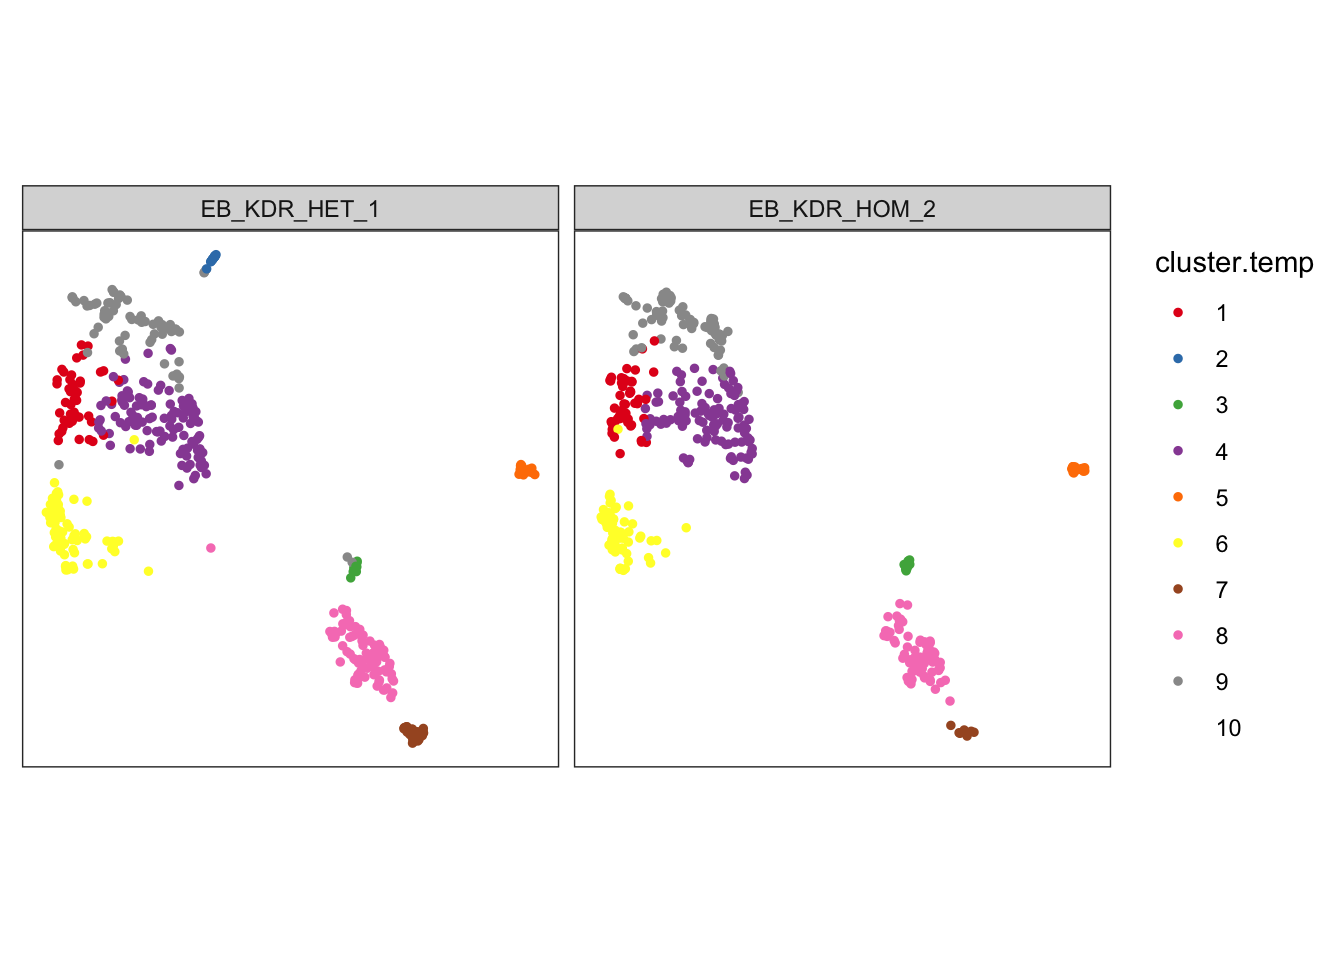
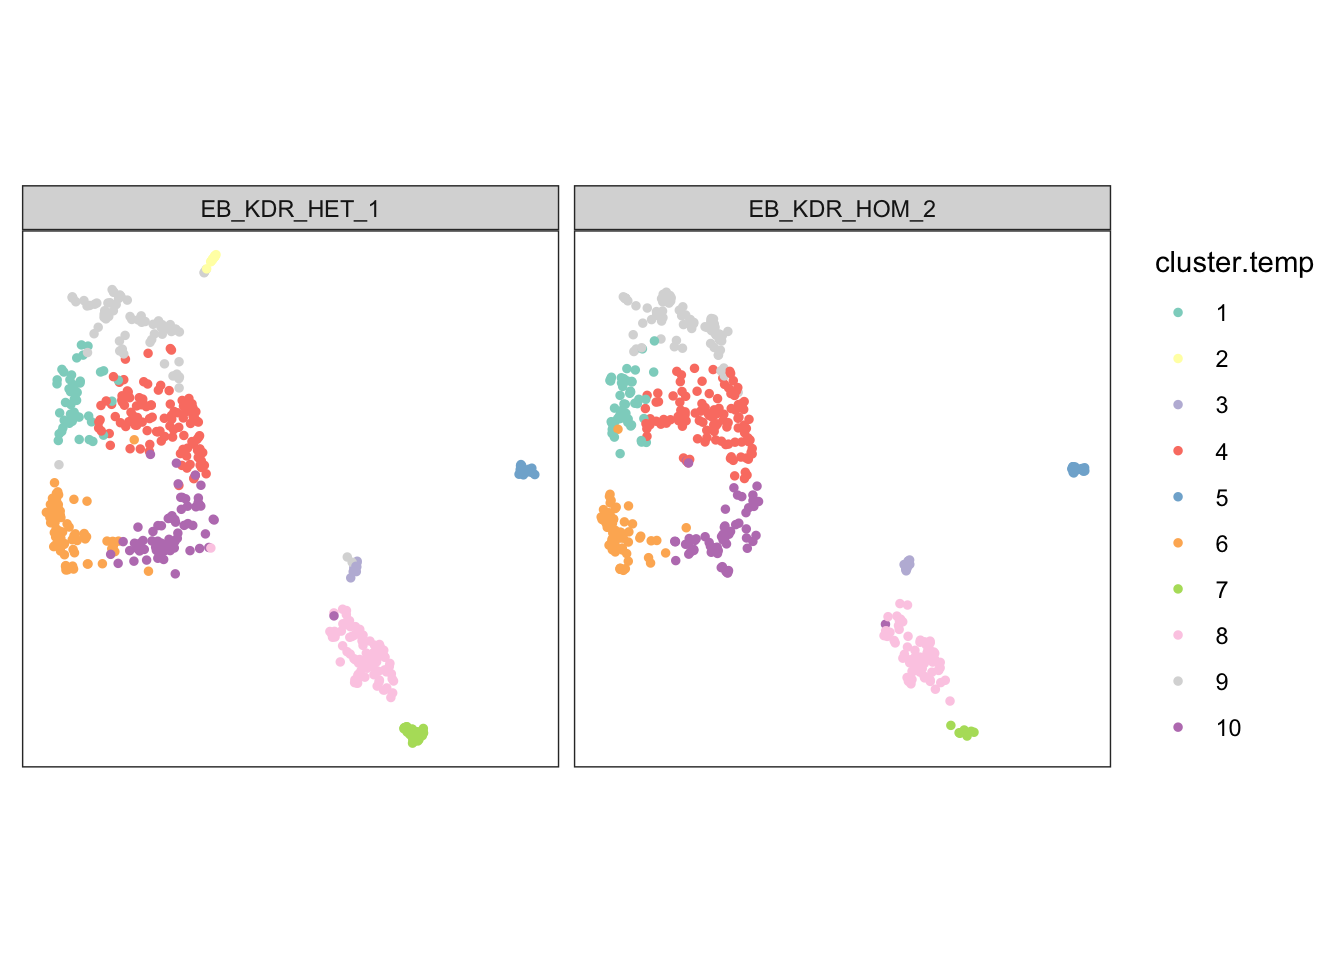
Build

diff --git a/docs/01-batch-integration.html b/docs/01-batch-integration.html
@@ -500,16 +500,16 @@ This reproducible <a href="http://rmarkdown.rstudio.com">R Markdown</a> analysis
 <div class="panel panel-default">
 <div class="panel-heading">
 <p class="panel-title">
-<a data-toggle="collapse" data-parent="#workflowr-checks" href="#strongRepositoryversionstrongahrefhttpsgithubcomjma1991EBKDRtree3f82acfaf75171166852d0f99205d75b9c0491bftargetblank3f82acfa"> <span class="glyphicon glyphicon-ok text-success" aria-hidden="true"></span> <strong>Repository version:</strong> <a href="https://github.com/jma1991/EB_KDR/tree/3f82acfaf75171166852d0f99205d75b9c0491bf" target="_blank">3f82acf</a> </a>
+<a data-toggle="collapse" data-parent="#workflowr-checks" href="#strongRepositoryversionstrongahrefhttpsgithubcomjma1991EBKDRtree0b159afa0ec3a60448dd42b8051eadddbc874d18targetblank0b159afa"> <span class="glyphicon glyphicon-ok text-success" aria-hidden="true"></span> <strong>Repository version:</strong> <a href="https://github.com/jma1991/EB_KDR/tree/0b159afa0ec3a60448dd42b8051eadddbc874d18" target="_blank">0b159af</a> </a>
 </p>
 </div>
[2 lines of base64/hex data omitted]
 <div class="panel-body">
 <p>
 Great! You are using Git for version control. Tracking code development and connecting the code version to the results is critical for reproducibility.
 </p>
 <p>
-The results in this page were generated with repository version <a href="https://github.com/jma1991/EB_KDR/tree/3f82acfaf75171166852d0f99205d75b9c0491bf" target="_blank">3f82acf</a>. See the <em>Past versions</em> tab to see a history of the changes made to the R Markdown and HTML files.
+The results in this page were generated with repository version <a href="https://github.com/jma1991/EB_KDR/tree/0b159afa0ec3a60448dd42b8051eadddbc874d18" target="_blank">0b159af</a>. See the <em>Past versions</em> tab to see a history of the changes made to the R Markdown and HTML files.
 </p>
 <p>
 Note that you need to be careful to ensure that all relevant files for the analysis have been committed to Git prior to generating the results (you can use <code>wflow_publish</code> or <code>wflow_git_commit</code>). workflowr only checks the R Markdown file, but you know if there are other scripts or data files that it depends on. Below is the status of the Git repository when the results were generated:
@@ -571,6 +571,40 @@ Message
 </tr>
 </thead>
 <tbody>
+<tr>
+<td>
+Rmd
+</td>
+<td>
+<a href="https://github.com/jma1991/EB_KDR/blob/0b159afa0ec3a60448dd42b8051eadddbc874d18/analysis/01-batch-integration.Rmd" target="_blank">0b159af</a>
+</td>
+<td>
+James Ashmore
+</td>
+<td>
+2021-07-15
+</td>
+<td>
+Build
+</td>
+</tr>
+<tr>
+<td>
+html
+</td>
+<td>
+<a href="https://rawcdn.githack.com/jma1991/EB_KDR/22d593937de177346c20604778c9e2946659f774/docs/01-batch-integration.html" target="_blank">22d5939</a>
+</td>
+<td>
+James Ashmore
+</td>
+<td>
+2021-07-15
+</td>
+<td>
+Build
+</td>
+</tr>
 <tr>
 <td>
 Rmd
@@ -903,7 +937,7 @@ James Ashmore
 <p>Visualize the corrected PCA:</p>
 <pre class="r"><code>ggcells(mnn, aes(corrected.1, corrected.2, colour = cluster.temp)) + 
   geom_point(size = 1) + 
-  scale_colour_brewer(palette = &quot;Set1&quot;) + 
+  scale_colour_brewer(palette = &quot;Set3&quot;) + 
   labs(x = &quot;PCA 1&quot;, y = &quot;PCA 2&quot;) + 
   facet_wrap(~ batch) + 
   theme_no_axes() + 
@@ -931,6 +965,17 @@ Date
 </tr>
 </thead>
 <tbody>
+<tr>
+<td>
+<a href="https://github.com/jma1991/EB_KDR/blob/56e9932fb72269f3348ea2be7837ef19852afed1/docs/figure/01-batch-integration.Rmd/unnamed-chunk-20-1.png" target="_blank">56e9932</a>
+</td>
+<td>
+James Ashmore
+</td>
+<td>
+2021-07-15
+</td>
+</tr>
 <tr>
 <td>
 <a href="https://github.com/jma1991/EB_KDR/blob/e26ff1adbe461d3a9337bed387e652c043cf386d/docs/figure/01-batch-integration.Rmd/unnamed-chunk-20-1.png" target="_blank">e26ff1a</a>
@@ -964,7 +1009,7 @@ mnn &lt;- runTSNE(mnn, dimred = &quot;corrected&quot;)</code></pre>
 <p>Visualize the corrected PCA using a TSNE plot:</p>
 <pre class="r"><code>ggcells(mnn, aes(TSNE.1, TSNE.2, colour = cluster.temp)) +
   geom_point(size = 1) + 
-  scale_colour_brewer(palette = &quot;Set1&quot;) + 
+  scale_colour_brewer(palette = &quot;Set3&quot;) + 
   labs(x = &quot;TSNE 1&quot;, y = &quot;TSNE 2&quot;) +
   facet_wrap(~ batch) +
   theme_no_axes() + 
@@ -992,6 +1037,17 @@ Date
 </tr>
 </thead>
 <tbody>
+<tr>
+<td>
+<a href="https://github.com/jma1991/EB_KDR/blob/22d593937de177346c20604778c9e2946659f774/docs/figure/01-batch-integration.Rmd/unnamed-chunk-22-1.png" target="_blank">22d5939</a>
+</td>
+<td>
+James Ashmore
+</td>
+<td>
+2021-07-15
+</td>
+</tr>
 <tr>
 <td>
 <a href="https://github.com/jma1991/EB_KDR/blob/56e9932fb72269f3348ea2be7837ef19852afed1/docs/figure/01-batch-integration.Rmd/unnamed-chunk-22-1.png" target="_blank">56e9932</a>
@@ -1036,7 +1092,7 @@ mnn &lt;- runUMAP(mnn, dimred = &quot;corrected&quot;)</code></pre>
 <p>Visualize the corrected PCA using a UMAP plot:</p>
 <pre class="r"><code>ggcells(mnn, aes(UMAP.1, UMAP.2, colour = cluster.temp)) +
   geom_point(size = 1) +
-  scale_colour_brewer(palette = &quot;Set1&quot;) + 
+  scale_colour_brewer(palette = &quot;Set3&quot;) + 
   labs(x = &quot;UMAP 1&quot;, y = &quot;UMAP 2&quot;) +
   facet_wrap(~ batch) +
   theme_no_axes() + 
@@ -1064,6 +1120,17 @@ Date
 </tr>
 </thead>
 <tbody>
+<tr>
+<td>
+<a href="https://github.com/jma1991/EB_KDR/blob/22d593937de177346c20604778c9e2946659f774/docs/figure/01-batch-integration.Rmd/unnamed-chunk-24-1.png" target="_blank">22d5939</a>
+</td>
+<td>
+James Ashmore
+</td>
+<td>
+2021-07-15
+</td>
+</tr>
 <tr>
 <td>
 <a href="https://github.com/jma1991/EB_KDR/blob/56e9932fb72269f3348ea2be7837ef19852afed1/docs/figure/01-batch-integration.Rmd/unnamed-chunk-24-1.png" target="_blank">56e9932</a>

diff --git a/docs/license.html b/docs/license.html
@@ -361,16 +361,16 @@ This reproducible <a href="http://rmarkdown.rstudio.com">R Markdown</a> analysis
 <div class="panel panel-default">
 <div class="panel-heading">
 <p class="panel-title">
-<a data-toggle="collapse" data-parent="#workflowr-checks" href="#strongRepositoryversionstrongahrefhttpsgithubcomjma1991EBKDRtree3f82acfaf75171166852d0f99205d75b9c0491bftargetblank3f82acfa"> <span class="glyphicon glyphicon-ok text-success" aria-hidden="true"></span> <strong>Repository version:</strong> <a href="https://github.com/jma1991/EB_KDR/tree/3f82acfaf75171166852d0f99205d75b9c0491bf" target="_blank">3f82acf</a> </a>
+<a data-toggle="collapse" data-parent="#workflowr-checks" href="#strongRepositoryversionstrongahrefhttpsgithubcomjma1991EBKDRtree0b159afa0ec3a60448dd42b8051eadddbc874d18targetblank0b159afa"> <span class="glyphicon glyphicon-ok text-success" aria-hidden="true"></span> <strong>Repository version:</strong> <a href="https://github.com/jma1991/EB_KDR/tree/0b159afa0ec3a60448dd42b8051eadddbc874d18" target="_blank">0b159af</a> </a>
 </p>
 </div>
[2 lines of base64/hex data omitted]
 <div class="panel-body">
 <p>
 Great! You are using Git for version control. Tracking code development and connecting the code version to the results is critical for reproducibility.
 </p>
 <p>
-The results in this page were generated with repository version <a href="https://github.com/jma1991/EB_KDR/tree/3f82acfaf75171166852d0f99205d75b9c0491bf" target="_blank">3f82acf</a>. See the <em>Past versions</em> tab to see a history of the changes made to the R Markdown and HTML files.
+The results in this page were generated with repository version <a href="https://github.com/jma1991/EB_KDR/tree/0b159afa0ec3a60448dd42b8051eadddbc874d18" target="_blank">0b159af</a>. See the <em>Past versions</em> tab to see a history of the changes made to the R Markdown and HTML files.
 </p>
 <p>
 Note that you need to be careful to ensure that all relevant files for the analysis have been committed to Git prior to generating the results (you can use <code>wflow_publish</code> or <code>wflow_git_commit</code>). workflowr only checks the R Markdown file, but you know if there are other scripts or data files that it depends on. Below is the status of the Git repository when the results were generated:
@@ -432,6 +432,23 @@ Message
 </tr>
 </thead>
 <tbody>
+<tr>
+<td>
+html
+</td>
+<td>
+<a href="https://rawcdn.githack.com/jma1991/EB_KDR/22d593937de177346c20604778c9e2946659f774/docs/license.html" target="_blank">22d5939</a>
+</td>
+<td>
+James Ashmore
+</td>
+<td>
+2021-07-15
+</td>
+<td>
+Build
+</td>
+</tr>
 <tr>
 <td>
 html

diff --git a/docs/about.html b/docs/about.html
@@ -361,16 +361,16 @@ This reproducible <a href="http://rmarkdown.rstudio.com">R Markdown</a> analysis
 <div class="panel panel-default">
 <div class="panel-heading">
 <p class="panel-title">
-<a data-toggle="collapse" data-parent="#workflowr-checks" href="#strongRepositoryversionstrongahrefhttpsgithubcomjma1991EBKDRtree3f82acfaf75171166852d0f99205d75b9c0491bftargetblank3f82acfa"> <span class="glyphicon glyphicon-ok text-success" aria-hidden="true"></span> <strong>Repository version:</strong> <a href="https://github.com/jma1991/EB_KDR/tree/3f82acfaf75171166852d0f99205d75b9c0491bf" target="_blank">3f82acf</a> </a>
+<a data-toggle="collapse" data-parent="#workflowr-checks" href="#strongRepositoryversionstrongahrefhttpsgithubcomjma1991EBKDRtree0b159afa0ec3a60448dd42b8051eadddbc874d18targetblank0b159afa"> <span class="glyphicon glyphicon-ok text-success" aria-hidden="true"></span> <strong>Repository version:</strong> <a href="https://github.com/jma1991/EB_KDR/tree/0b159afa0ec3a60448dd42b8051eadddbc874d18" target="_blank">0b159af</a> </a>
 </p>
 </div>
[2 lines of base64/hex data omitted]
 <div class="panel-body">
 <p>
 Great! You are using Git for version control. Tracking code development and connecting the code version to the results is critical for reproducibility.
 </p>
 <p>
-The results in this page were generated with repository version <a href="https://github.com/jma1991/EB_KDR/tree/3f82acfaf75171166852d0f99205d75b9c0491bf" target="_blank">3f82acf</a>. See the <em>Past versions</em> tab to see a history of the changes made to the R Markdown and HTML files.
+The results in this page were generated with repository version <a href="https://github.com/jma1991/EB_KDR/tree/0b159afa0ec3a60448dd42b8051eadddbc874d18" target="_blank">0b159af</a>. See the <em>Past versions</em> tab to see a history of the changes made to the R Markdown and HTML files.
 </p>
 <p>
 Note that you need to be careful to ensure that all relevant files for the analysis have been committed to Git prior to generating the results (you can use <code>wflow_publish</code> or <code>wflow_git_commit</code>). workflowr only checks the R Markdown file, but you know if there are other scripts or data files that it depends on. Below is the status of the Git repository when the results were generated:
@@ -432,6 +432,23 @@ Message
 </tr>
 </thead>
 <tbody>
+<tr>
+<td>
+html
+</td>
+<td>
+<a href="https://rawcdn.githack.com/jma1991/EB_KDR/22d593937de177346c20604778c9e2946659f774/docs/about.html" target="_blank">22d5939</a>
+</td>
+<td>
+James Ashmore
+</td>
+<td>
+2021-07-15
+</td>
+<td>
+Build
+</td>
+</tr>
 <tr>
 <td>
 html

diff --git a/docs/index.html b/docs/index.html
@@ -361,16 +361,16 @@ This reproducible <a href="http://rmarkdown.rstudio.com">R Markdown</a> analysis
 <div class="panel panel-default">
 <div class="panel-heading">
 <p class="panel-title">
-<a data-toggle="collapse" data-parent="#workflowr-checks" href="#strongRepositoryversionstrongahrefhttpsgithubcomjma1991EBKDRtree3f82acfaf75171166852d0f99205d75b9c0491bftargetblank3f82acfa"> <span class="glyphicon glyphicon-ok text-success" aria-hidden="true"></span> <strong>Repository version:</strong> <a href="https://github.com/jma1991/EB_KDR/tree/3f82acfaf75171166852d0f99205d75b9c0491bf" target="_blank">3f82acf</a> </a>
+<a data-toggle="collapse" data-parent="#workflowr-checks" href="#strongRepositoryversionstrongahrefhttpsgithubcomjma1991EBKDRtree0b159afa0ec3a60448dd42b8051eadddbc874d18targetblank0b159afa"> <span class="glyphicon glyphicon-ok text-success" aria-hidden="true"></span> <strong>Repository version:</strong> <a href="https://github.com/jma1991/EB_KDR/tree/0b159afa0ec3a60448dd42b8051eadddbc874d18" target="_blank">0b159af</a> </a>
 </p>
 </div>
[2 lines of base64/hex data omitted]
 <div class="panel-body">
 <p>
 Great! You are using Git for version control. Tracking code development and connecting the code version to the results is critical for reproducibility.
 </p>
 <p>
-The results in this page were generated with repository version <a href="https://github.com/jma1991/EB_KDR/tree/3f82acfaf75171166852d0f99205d75b9c0491bf" target="_blank">3f82acf</a>. See the <em>Past versions</em> tab to see a history of the changes made to the R Markdown and HTML files.
+The results in this page were generated with repository version <a href="https://github.com/jma1991/EB_KDR/tree/0b159afa0ec3a60448dd42b8051eadddbc874d18" target="_blank">0b159af</a>. See the <em>Past versions</em> tab to see a history of the changes made to the R Markdown and HTML files.
 </p>
 <p>
 Note that you need to be careful to ensure that all relevant files for the analysis have been committed to Git prior to generating the results (you can use <code>wflow_publish</code> or <code>wflow_git_commit</code>). workflowr only checks the R Markdown file, but you know if there are other scripts or data files that it depends on. Below is the status of the Git repository when the results were generated:
@@ -432,6 +432,23 @@ Message
 </tr>
 </thead>
 <tbody>
+<tr>
+<td>
+html
+</td>
+<td>
+<a href="https://rawcdn.githack.com/jma1991/EB_KDR/22d593937de177346c20604778c9e2946659f774/docs/index.html" target="_blank">22d5939</a>
+</td>
+<td>
+James Ashmore
+</td>
+<td>
+2021-07-15
+</td>
+<td>
+Build
+</td>
+</tr>
 <tr>
 <td>
 html
